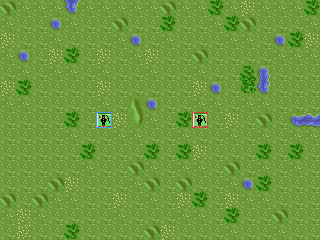
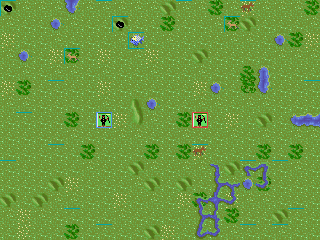
Add rivers and resource specials
Model: tiles gain river/special flags; make-new-game lays meandering rivers
(random walks) and scatters specials (~1/16). tile-yield now adds +1 trade
for rivers and a per-terrain bonus for specials (*special-bonus*), so the
economy actually flows. View: draw river overlays (SP257 row 5, indexed by a
river/ocean connection bitmask) and special-resource icons (SP257 row 7 by
terrain id). Updated screenshot.

diff --git a/README.md b/README.md
@@ -11,8 +11,8 @@ extracted from the DOS game *Sid Meier's Civilization* (the sibling
 
 ![civ-lisp rendering a game with edge-blended terrain](docs/screenshot.png)
 
-*A rendered game: grassland with edge-blended forest, hills and coastlines
-(TER257 sprites), two settlers with owner-coloured borders.*
+*A rendered game: edge-blended terrain (TER257), rivers and resource specials
+(SP257), two settlers with owner-coloured borders.*
 
 ## Controls
 
@@ -28,7 +28,10 @@ Terrain uses the original **edge-blending** scheme (CivOne's algorithm): a land
 tile is a generic base plus a TER257 overlay chosen by a bitmask of which
 cardinal neighbours share its terrain (N=1 E=2 S=4 W=8), so mismatched edges
 feather into their neighbours; ocean tiles add coastline sub-tiles from the
-eight surrounding land directions. Units and cities use SP257 sprites. The map
+eight surrounding land directions. Rivers (SP257 connection variants, +1 trade)
+and per-terrain resource **specials** (SP257; e.g. grassland shields, ocean
+fish, mountain gold) are drawn as overlays and feed into tile yields. Units and
+cities use SP257 sprites. The map
 fills the window exactly (20×15 tiles of 16 px, scaled 2× → 640×480). Keyboard
 input is turned into `civ-model` commands — the view never mutates the model
 directly.
